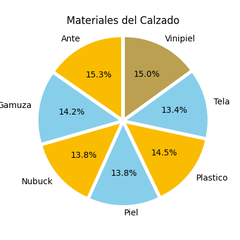
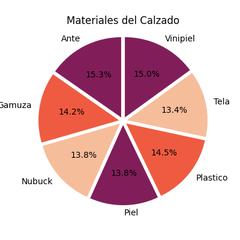
RectaFinal3

diff --git a/main.py b/main.py
@@ -319,7 +319,7 @@ class DashboardScreen(QMainWindow):
         df.columns = ["Sexo", "Total"]
         plt.figure (figsize=(4,4))
         plt.title("Sexo de los clientes")
-        plt.pie(df["Total"], labels=df["Sexo"], autopct="%1.1f%%", shadow=False, startangle=90, colors=["#F2C94C", "#0f3463"])
+        plt.pie(df["Total"], labels=df["Sexo"], autopct="%1.1f%%", shadow=False, startangle=90, colors=["#811e5a", "#f6bd9b"])
         plt.axis("equal")
         #download image
         plt.savefig("graficas/clientes1.png")
@@ -340,7 +340,7 @@ class DashboardScreen(QMainWindow):
         df.columns = ["Sexo", "Total"]
         plt.figure (figsize=(7,5))
         plt.title("Ganancias por Sexo")
-        plt.bar(df["Sexo"], df["Total"], color=["#FABC00", "#87CEEB"])
+        sns.barplot(x="Sexo", y="Total", data=df, palette="rocket")
         plt.savefig("graficas/clientes2.png")
         img = Image.open("graficas/clientes2.png")
         #recortar imagen parte de arriba
@@ -360,7 +360,7 @@ class DashboardScreen(QMainWindow):
         df.columns = ["Sexo", "Promedio"]
         plt.figure (figsize=(5,5))
         plt.title("Promedio de servicios por sexo")
-        plt.bar(df["Sexo"], df["Promedio"], color=["#F2C94C", "#0f3463"])
+        sns.barplot(x="Sexo", y="Promedio", data=df, palette="rocket")
         #download image
         plt.savefig("graficas/clientes3.png")
         #resize image with PIL
@@ -383,7 +383,7 @@ class DashboardScreen(QMainWindow):
         plt.figure (figsize=(5,5))
         plt.xticks(rotation=-45)
         plt.title("Clientes con mas servicios")
-        sns.barplot(x="Nombre", y="TotalServicios", data=df, palette="cividis")
+        sns.barplot(x="Nombre", y="TotalServicios", data=df, palette="rocket")
         plt.savefig("graficas/clientes5.png")
         img = Image.open("graficas/clientes5.png")
         img = img.crop((0, 30, 500, 500))
@@ -396,12 +396,6 @@ class DashboardScreen(QMainWindow):
 
 
         self.clientes_graphicsView_4.setStyleSheet("background-image: url(graficas/MJ_Cuadro.jpg);")
-
-        #------------------------
-        #clientes_graphicsView_5
-        #------------------------
-        #Grafica de barras, clientes por mes de registro
-        #self.clientes_graphicsView_5.setStyleSheet("background-image: url(graficas/logo.jpg);")
         
         #------------------------
         #clientes_graphicsView_7
@@ -424,7 +418,7 @@ class DashboardScreen(QMainWindow):
         plt.title("Número de clientes por edad")
         plt.ylabel("Total")
         plt.xlabel("Edad")
-        plt.hist(df["FechaNacimiento"], bins=10, color="#F2C94C")
+        plt.hist(df["FechaNacimiento"], bins=10, color="#811e5a")
         plt.savefig("graficas/clientes7.png")
         img = Image.open("graficas/clientes7.png")
         img = img.resize((461,331), Image.LANCZOS)
@@ -444,7 +438,7 @@ class DashboardScreen(QMainWindow):
         plt.figure (figsize=(4,4))
         plt.title("Tipos de Calzado")
         explode = (0.05, 0.05, 0.05, 0.05, 0.05)
-        plt.pie(df["Total"], labels=df["TipoCalzado"], autopct="%1.1f%%", shadow=False, startangle=90, colors=["#BAA050", "#87CEEB", "#FABC00", "#87CEEB", "#FABC00"], pctdistance=0.85, explode=explode)
+        plt.pie(df["Total"], labels=df["TipoCalzado"], autopct="%1.1f%%", shadow=False, startangle=90, colors=["#811e5a", "#ef5b41", "#f6bd9b"], pctdistance=0.85, explode=explode)
 
         #----------------------------------------------
         centre_circle = plt.Circle((0, 0), 0.60, fc='white')
@@ -471,7 +465,7 @@ class DashboardScreen(QMainWindow):
         plt.figure (figsize=(4,4))
         plt.title("Materiales del Calzado")
         explode = (0.05, 0.05, 0.05, 0.05, 0.05, 0.05, 0.05)
-        plt.pie(df["Total"], labels=df["Materiales"], autopct="%1.1f%%", shadow=False, startangle=90, colors=["#FABC00", "#87CEEB", "#FABC00", "#87CEEB", "#FABC00", "#87CEEB", "#BAA050"], explode=explode)
+        plt.pie(df["Total"], labels=df["Materiales"], autopct="%1.1f%%", shadow=False, startangle=90, colors=["#811e5a", "#ef5b41", "#f6bd9b"], explode=explode)
         plt.axis("equal")
         plt.savefig("graficas/calzado3.png")
         img = Image.open("graficas/calzado3.png")
@@ -490,7 +484,7 @@ class DashboardScreen(QMainWindow):
         #inclinar los nombres
         plt.yticks(rotation=45)
         plt.title("Servicios por Marca")
-        sns.barplot(x="Total", y="Marca", data=df, palette="cividis")
+        sns.barplot(x="Total", y="Marca", data=df, palette="rocket")
         plt.savefig("graficas/calzado4.png")
         img = Image.open("graficas/calzado4.png")
         img = img.crop((0, 30, 590, 480))
@@ -531,7 +525,7 @@ class DashboardScreen(QMainWindow):
         plt.yticks(rotation=0)
         plt.xticks(rotation = 45)
         plt.title("Tallas usuales")
-        plt.stem(df["Total"], df["Talla"], use_line_collection=True)
+        plt.stem(df["Total"], df["Talla"], use_line_collection=True, linefmt="#811e5a", markerfmt="#e63b3f", basefmt="#f6b08a")
         plt.savefig("graficas/calzado6.png")
         img = Image.open("graficas/calzado6.png")
         img = img.resize((resizeGrande3,resizeGrande4), Image.LANCZOS)
@@ -550,7 +544,7 @@ class DashboardScreen(QMainWindow):
         plt.figure (figsize=(4,4))
         plt.title("Servicios contratados") 
         explode = (0.05, 0.05, 0.05, 0.05, 0.05, 0.05)
-        plt.pie(df["Total"], labels=df["ServicioContratado"], autopct="%1.1f%%", shadow=False, startangle=90, colors=["#FABC00", "#87CEEB", "#FABC00", "#87CEEB", "#FABC00", "#87CEEB"], pctdistance=0.85, explode=explode)
+        plt.pie(df["Total"], labels=df["ServicioContratado"], autopct="%1.1f%%", shadow=False, startangle=90, colors=["#811e5a", "#ef5b41", "#f6bd9b"], pctdistance=0.85, explode=explode)
         centre_circle = plt.Circle((0, 0), 0.60, fc='white')
         fig = plt.gcf()
         fig.gca().add_artist(centre_circle)
@@ -565,26 +559,6 @@ class DashboardScreen(QMainWindow):
         #------------------------
         #calzado_graphicsView_8
         #------------------------
-        #grafica de tendencia de FechaLlegada del calzado
-        # cursor.execute("SELECT Month(FechaLlegada), COUNT(*) FROM calzado")
-        # result = cursor.fetchall()
-        # df = pd.DataFrame(result)
-        # df.columns = ["Nombre", "Total"]
-        # plt.figure (figsize=(4,4))
-        # plt.title("Tenis lavados por empleado")
-        # plt.xticks(rotation = 45)
-        # sns.barplot(x="Nombre", y="Total", data=df, palette="cividis")
-        # plt.savefig("graficas/empleados4.png")  
-        # img = Image.open("graficas/empleados4.png")
-        # img = img.crop((0, 25, 400, 400))
-        # img = img.resize((resizeGrande1,resizeGrande2), Image.LANCZOS)
-        # img.save("graficas/empleados4.png")
-        # self.empleados_graphicsView_4.setStyleSheet("background-image: url(graficas/empleados4.png);")
-        # img = Image.open("graficas/logoTenis.png")
-        # img = img.resize((900,641), Image.LANCZOS)
-        # img = img.crop((275, 0, 720, 641))
-        # img.save("graficas/logoTenis1.png")
-        # self.empleados_graphicsView_5.setStyleSheet("background-image: url(graficas/logoTenis1.png);")
         cursor.execute("SELECT Color, COUNT(*) FROM calzado GROUP BY Color")
         result = cursor.fetchall()
         df = pd.DataFrame(result)
@@ -592,7 +566,7 @@ class DashboardScreen(QMainWindow):
         plt.figure (figsize=(4,4))
         plt.title("Colores usados") 
         explode = (0.05, 0.05, 0.05, 0.05, 0.05, 0.05, 0.05, 0.05, 0.05)
-        plt.pie(df["Total"], labels=df["Color"], autopct="%1.1f%%", shadow=False, startangle=90, colors=["#FABC00", "#87CEEB", "#FABC00", "#87CEEB", "#FABC00", "#87CEEB", "#FABC00", "#87CEEB" ], pctdistance=0.85, explode=explode)
+        plt.pie(df["Total"], labels=df["Color"], autopct="%1.1f%%", shadow=False, startangle=90, colors=["#811e5a", "#ef5b41", "#f6bd9b"], pctdistance=0.85, explode=explode)
         centre_circle = plt.Circle((0, 0), 0.60, fc='white')
         fig = plt.gcf()
         fig.gca().add_artist(centre_circle)
@@ -605,8 +579,6 @@ class DashboardScreen(QMainWindow):
         plt.close()
 
 
-        
-        
         img = Image.open("graficas/logo.jpg")
         img = img.crop((50, 50, 480, 720))
         img.save("graficas/logo1.jpg")
@@ -615,6 +587,22 @@ class DashboardScreen(QMainWindow):
         #------------------------
         #empleados_graphicsView_1
         #------------------------
+        cursor.execute("SELECT A.ServicioContratado, (COUNT(A.ServicioContratado)*B.Costo) AS Ganancia FROM calzado A, servicio B WHERE A.ServicioContratado = B.NombreServicio GROUP BY ServicioContratado")
+        result = cursor.fetchall()
+        df = pd.DataFrame(result)
+        df.columns = ["ServicioContratado", "Total"]
+        plt.figure (figsize=(5,5))
+        plt.title("Ganancias por servicio")
+        plt.xticks(rotation = 20)
+        plt.yticks(rotation=45)
+        sns.barplot(x="ServicioContratado", y="Total", data=df, palette="rocket")
+        plt.savefig("graficas/empleados1.png")
+        img = Image.open("graficas/empleados1.png")
+        img = img.crop((0, 35, 480, 500))
+        img = img.resize((resizePequeño2,resizePequeño2), Image.LANCZOS)
+        img.save("graficas/empleados1.png")
+        self.empleados_graphicsView_1.setStyleSheet("background-image: url(graficas/empleados1.png);")
+        plt.close()
 
 
         #------------------------
@@ -627,7 +615,7 @@ class DashboardScreen(QMainWindow):
         df.columns = ["ServicioContratado", "Total"]
         plt.figure (figsize=(4,4))
         plt.title("Porcentaje de ganancias por servicio")
-        plt.pie(df["Total"], labels=df["ServicioContratado"], autopct="%1.1f%%", shadow=False, startangle=90, colors=["#FABC00", "#87CEEB", "#FABC00", "#87CEEB", "#FABC00", "#87CEEB"])
+        plt.pie(df["Total"], labels=df["ServicioContratado"], autopct="%1.1f%%", shadow=False, startangle=90, colors=["#811e5a", "#ef5b41", "#f6bd9b"])
         centre_circle = plt.Circle((0, 0), 0.60, fc='white')
         fig = plt.gcf()
         fig.gca().add_artist(centre_circle)
@@ -650,7 +638,7 @@ class DashboardScreen(QMainWindow):
         plt.figure (figsize=(4,4))
         plt.title("Tenis lavados por empleado")
         plt.xticks(rotation = 45)
-        sns.barplot(x="Nombre", y="Total", data=df, palette="cividis")
+        sns.barplot(x="Nombre", y="Total", data=df, palette="rocket")
         plt.savefig("graficas/empleados4.png")  
         img = Image.open("graficas/empleados4.png")
         img = img.crop((0, 25, 400, 400))
@@ -667,23 +655,7 @@ class DashboardScreen(QMainWindow):
         #empleados_graphicsView_6
         #------------------------
         #Grafica pastel Seleccionar ServicioContratado de calzado lo contamos y lo multiplicamos por el costo de la tabla servicio
-        cursor.execute("SELECT A.ServicioContratado, (COUNT(A.ServicioContratado)*B.Costo) AS Ganancia FROM calzado A, servicio B WHERE A.ServicioContratado = B.NombreServicio GROUP BY ServicioContratado")
-        result = cursor.fetchall()
-        df = pd.DataFrame(result)
-        df.columns = ["ServicioContratado", "Total"]
-        plt.figure (figsize=(8,7))
-        plt.title("Ganancias por servicio")
-        plt.bar(df["ServicioContratado"], df["Total"], color=["#FABC00", "#87CEEB", "#FABC00", "#87CEEB", "#FABC00", "#87CEEB"])
-        #color=["#FABC00", "#87CEEB", "#FABC00", "#87CEEB", "#FABC00", "#87CEEB"]
-        plt.savefig("graficas/empleados6.png")
-        img = Image.open("graficas/empleados6.png")
-        #recortar imagen parte de arriba
-        img = img.crop((0, 55, 800, 700))
-        img = img.resize((resizeGrande3,resizeGrande4), Image.LANCZOS)
-        img.save("graficas/empleados6.png")
-        self.empleados_graphicsView_6.setStyleSheet("background-image: url(graficas/empleados6.png);")
-        plt.close()
-
+        
         #------------------------
         #empleados_graphicsView_7
         #------------------------
@@ -694,15 +666,34 @@ class DashboardScreen(QMainWindow):
         plt.figure (figsize=(4,4))
         plt.title("Lluvias")
         plt.xticks(rotation = 45)
-        sns.lineplot(x="Lluvias", y="Mes", data=df, color="#FABC00")
+        sns.lineplot(x="Lluvias", y="Mes", data=df, color="#811e5a")
         plt.savefig("graficas/empleados7.png")
         img = Image.open("graficas/empleados7.png")
         img = img.crop((15, 20, 395,400))
         img = img.resize((241,291), Image.LANCZOS)
         img.save("graficas/empleados7.png")
         self.empleados_graphicsView_7.setStyleSheet("background-image: url(graficas/empleados7.png);")
-        #self.empleados_graphicsView_7.setStyleSheet("background-image: url(graficas/logo.jpg);")
         
+        #------------------------
+        #empleados_graphicsView_8
+        #------------------------
+        #Grafica lineplot de 
+        cursor.execute("SELECT FechaLlegada, Count(*) FROM calzado GROUP BY FechaLlegada")
+        result = cursor.fetchall()
+        df = pd.DataFrame(result)
+        df.columns = ["Fecha", "Total"]
+        plt.figure (figsize=(3,3))
+        plt.title("Tenis recibido por día")
+        plt.bar(df["Fecha"], df["Total"], color="#811e5a")
+        plt.savefig("graficas/empleados8.png")
+        img = Image.open("graficas/empleados8.png")
+        img = img.crop((0, 0, 300,275))
+        img = img.resize((241,291), Image.LANCZOS)
+        img.save("graficas/empleados8.png")
+        self.empleados_graphicsView_8.setStyleSheet("background-image: url(graficas/empleados8.png);")
+        plt.close()
+
+
     #Funciones
     def gotoMain(self):
         main = MainScreen()
